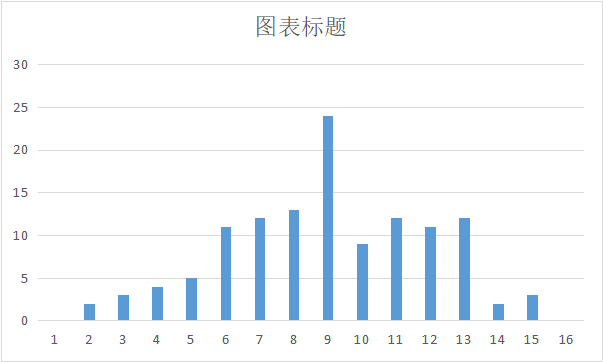
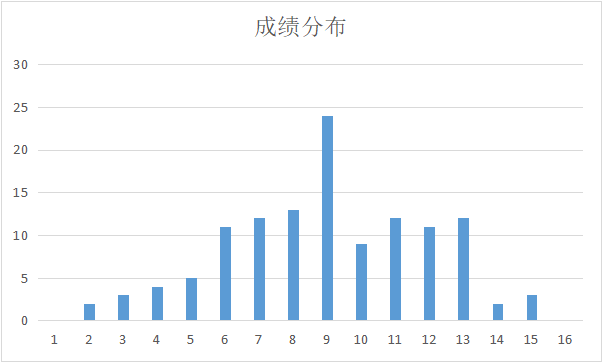
Site updated: 2018-11-15 18:09:53

diff --git a/2018/11/15/2018 2nd quiz/index.html b/2018/11/15/2018 2nd quiz/index.html
@@ -398,7 +398,7 @@ height:70vh;
         <div class="container container-unloaded">
             <main class="main post-page">
     <article class="article-entry">
-        <h2 id="第二次小测成绩"><a href="#第二次小测成绩" class="headerlink" title="第二次小测成绩"></a>第二次小测成绩</h2><h5 id="数据"><a href="#数据" class="headerlink" title="数据"></a>数据</h5><p><img src="img/2quiz.png"></p>
+        <h2 id="第二次小测成绩"><a href="#第二次小测成绩" class="headerlink" title="第二次小测成绩"></a>第二次小测成绩</h2><h5 id="数据"><a href="#数据" class="headerlink" title="数据"></a>数据</h5><p><img src="/img/2quiz.png" alt="成绩分布"></p>
 <h5 id="评分标准"><a href="#评分标准" class="headerlink" title="评分标准"></a>评分标准</h5><p>按得分点给分，没有回答到得分点的零分。</p>
 <p>单独讨论简单情况的会得部分小分。</p>
 <h5 id="详细"><a href="#详细" class="headerlink" title="详细"></a>详细</h5><table>

diff --git a/2018/11/15/2018 1st quiz/index.html b/2018/11/15/2018 1st quiz/index.html
@@ -398,7 +398,7 @@ height:70vh;
         <div class="container container-unloaded">
             <main class="main post-page">
     <article class="article-entry">
-        <h2 id="第二次小测成绩"><a href="#第二次小测成绩" class="headerlink" title="第二次小测成绩"></a>第二次小测成绩</h2><h5 id="数据"><a href="#数据" class="headerlink" title="数据"></a>数据</h5><p><img src="img/1quiz.png"></p>
+        <h2 id="第二次小测成绩"><a href="#第二次小测成绩" class="headerlink" title="第二次小测成绩"></a>第二次小测成绩</h2><h5 id="数据"><a href="#数据" class="headerlink" title="数据"></a>数据</h5><p><img src="\img\1quiz.png" alt="成绩分布"></p>
 <h5 id="详细"><a href="#详细" class="headerlink" title="详细"></a>详细</h5><table>
 <thead>
 <tr>
